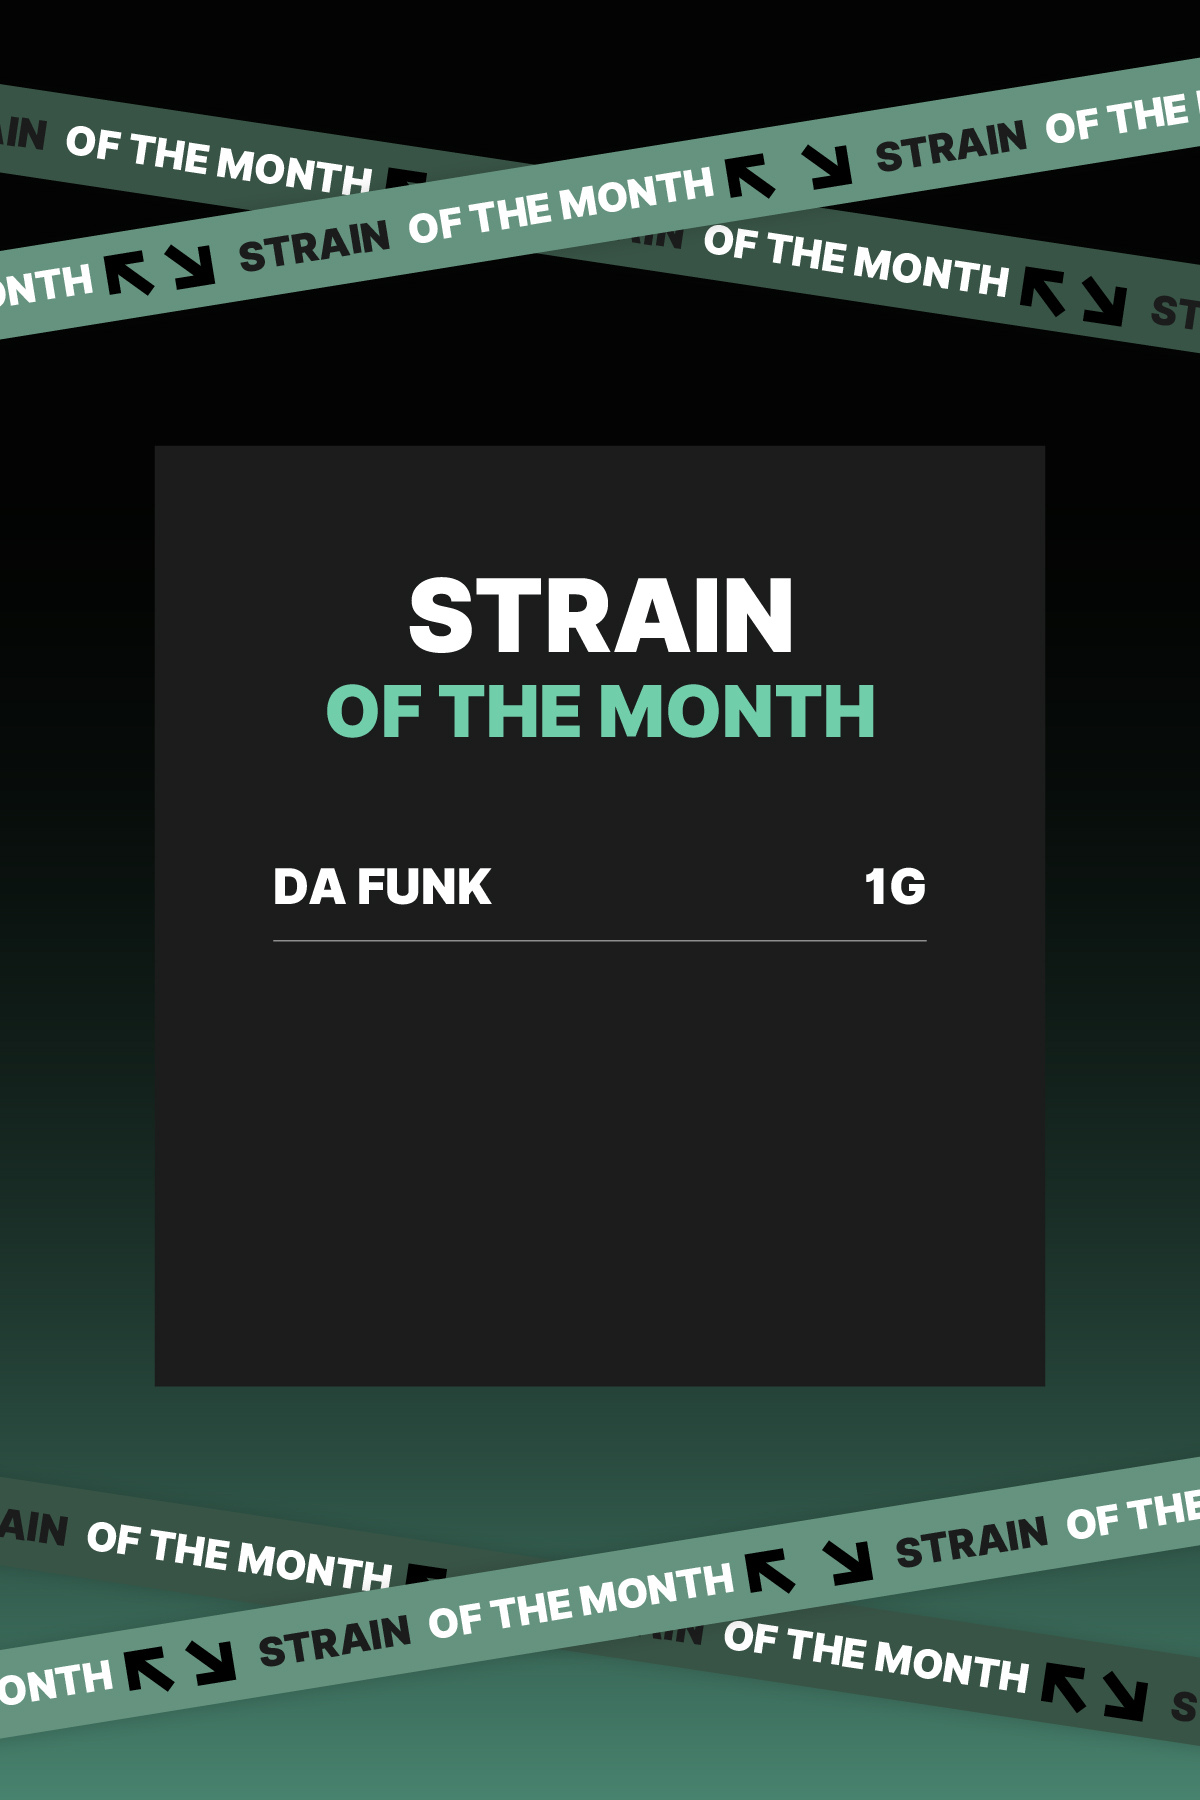
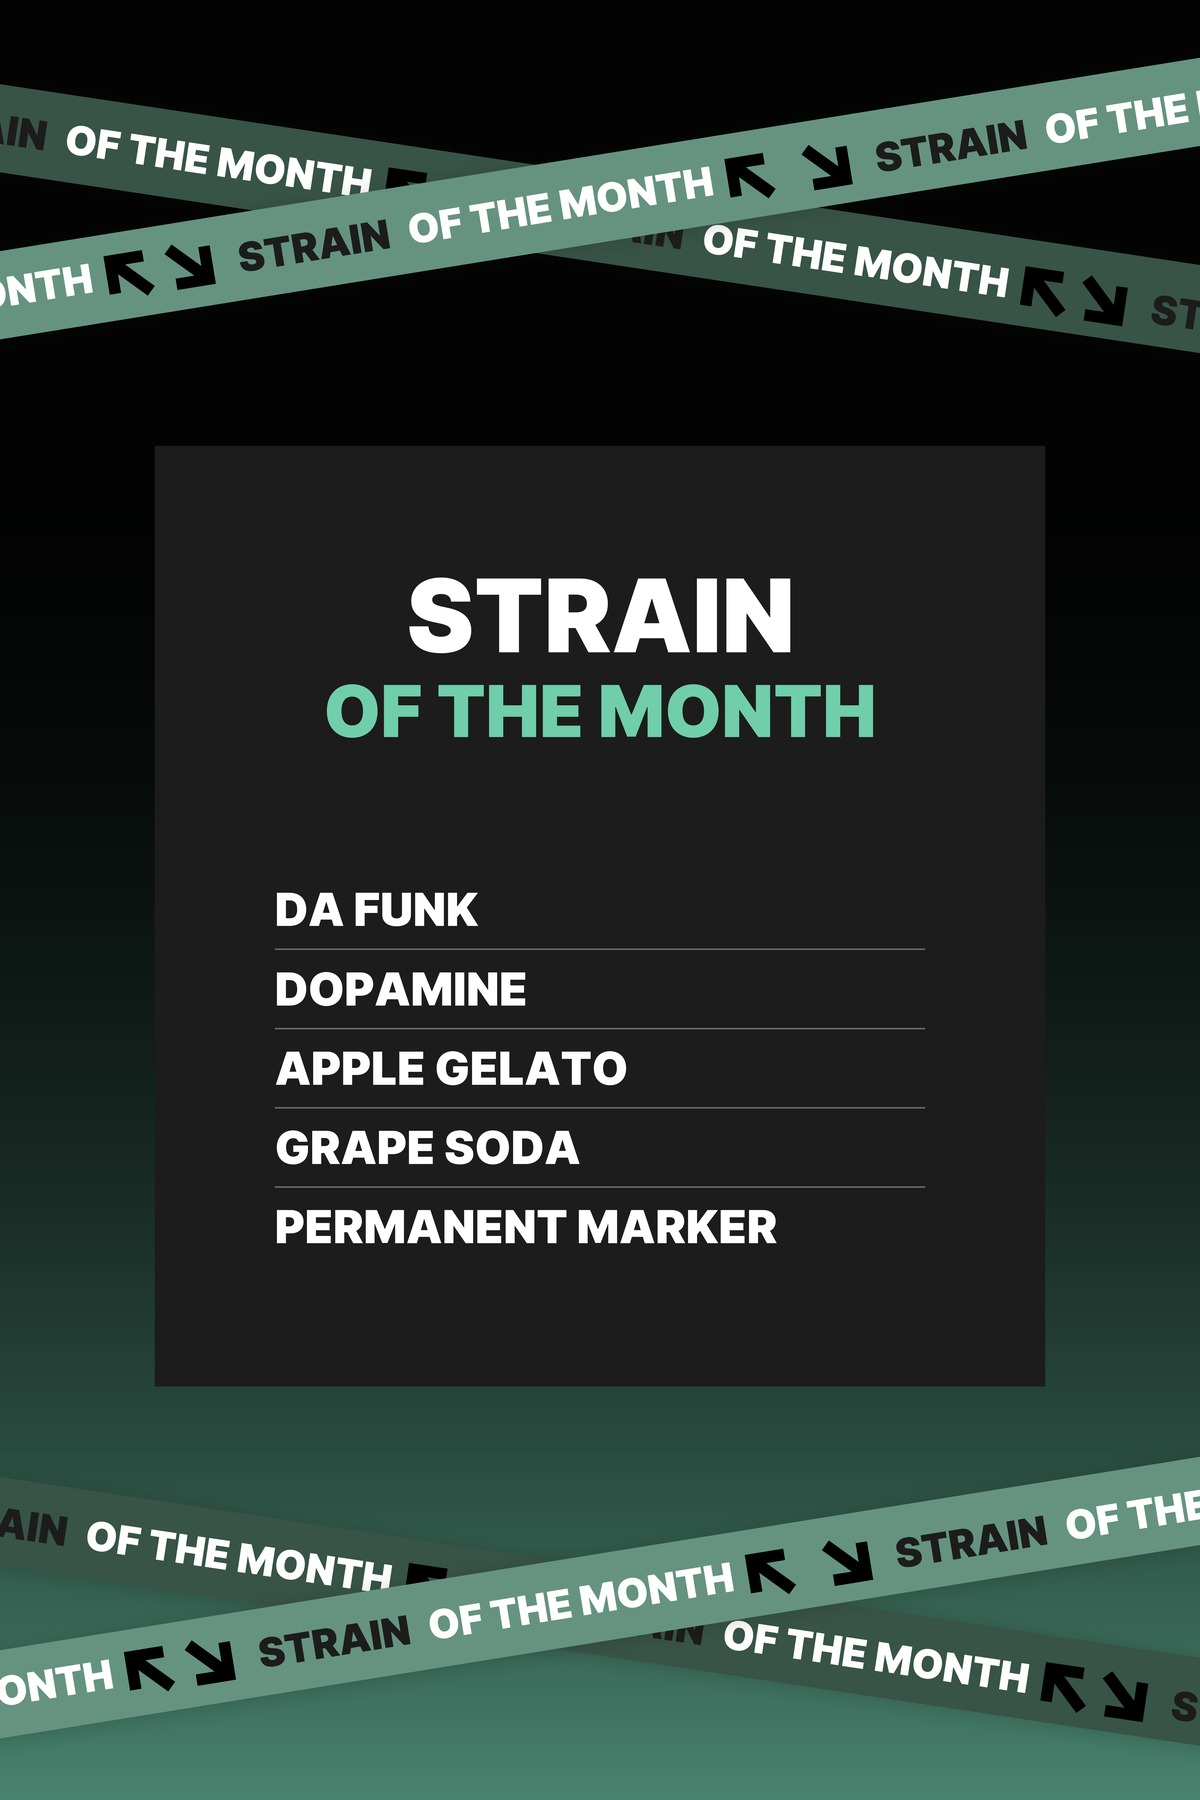
Monthly menu update: restock Trop Cherry Gas #14, new BOGO batch, add pre-rolls, introduce Charlotte's Angel CBD flower
- Trop Cherry Gas #14 back in stock, both sizes
- BUY 1 GET 1 FREE batch: Da Funk, Dopamine, Apple Gelato, Grape Soda, Permanent Marker
- Add Cashew Sundae, Black Garlic, Cap Junky, Rancid Runtz to pre-rolls
- Add Charlotte's Angel CBD flower, hide THC display for CBD category
- Update Strain of the Month promo graphic (Inter Black, 5-strain batch)

Changed region(s): [[0.2158, 0.4667, 0.6475, 0.7156], [0.7092, 0.4667, 0.7708, 0.5289]]

diff --git a/index.html b/index.html
@@ -815,14 +815,15 @@
                   className:
                     "flex flex-col md:flex-row md:items-center gap-x-3 gap-y-0.5 mb-1.5",
                 },
-                /*#__PURE__*/ React.createElement(
-                  "span",
-                  {
-                    className:
-                      "font-inter font-black text-white text-xs opacity-90 whitespace-nowrap",
-                  },
-                  `THC ${product.thc}`,
-                ),
+                product.cat !== "CBD" &&
+                  /*#__PURE__*/ React.createElement(
+                    "span",
+                    {
+                      className:
+                        "font-inter font-black text-white text-xs opacity-90 whitespace-nowrap",
+                    },
+                    `THC ${product.thc}`,
+                  ),
                 /*#__PURE__*/ React.createElement(
                   "span",
                   {
@@ -1258,15 +1259,16 @@
                       {
                         className: "flex items-center gap-3",
                       },
-                      /*#__PURE__*/ React.createElement(
-                        "span",
-                        {
-                          className:
-                            "bg-[#a0d4b2]/10 text-[#a0d4b2] px-2 py-1 rounded text-xs font-bold border border-[#a0d4b2]/20",
-                        },
-                        "THC ",
-                        product.thc,
-                      ),
+                      product.cat !== "CBD" &&
+                        /*#__PURE__*/ React.createElement(
+                          "span",
+                          {
+                            className:
+                              "bg-[#a0d4b2]/10 text-[#a0d4b2] px-2 py-1 rounded text-xs font-bold border border-[#a0d4b2]/20",
+                          },
+                          "THC ",
+                          product.thc,
+                        ),
                       product.cbd !== "0%" &&
                         /*#__PURE__*/ React.createElement(
                           "span",

diff --git a/promo.html b/promo.html
@@ -215,7 +215,7 @@
             <div class="promo-card">
               <img
                 src="assets/images/STRAIN OF THE MONTH.jpg"
-                alt="Strain of the Month - Da Funk"
+                alt="Strain of the Month - Buy 1 Get 1 Free Batch"
                 class="bg-image"
               />
             </div>
